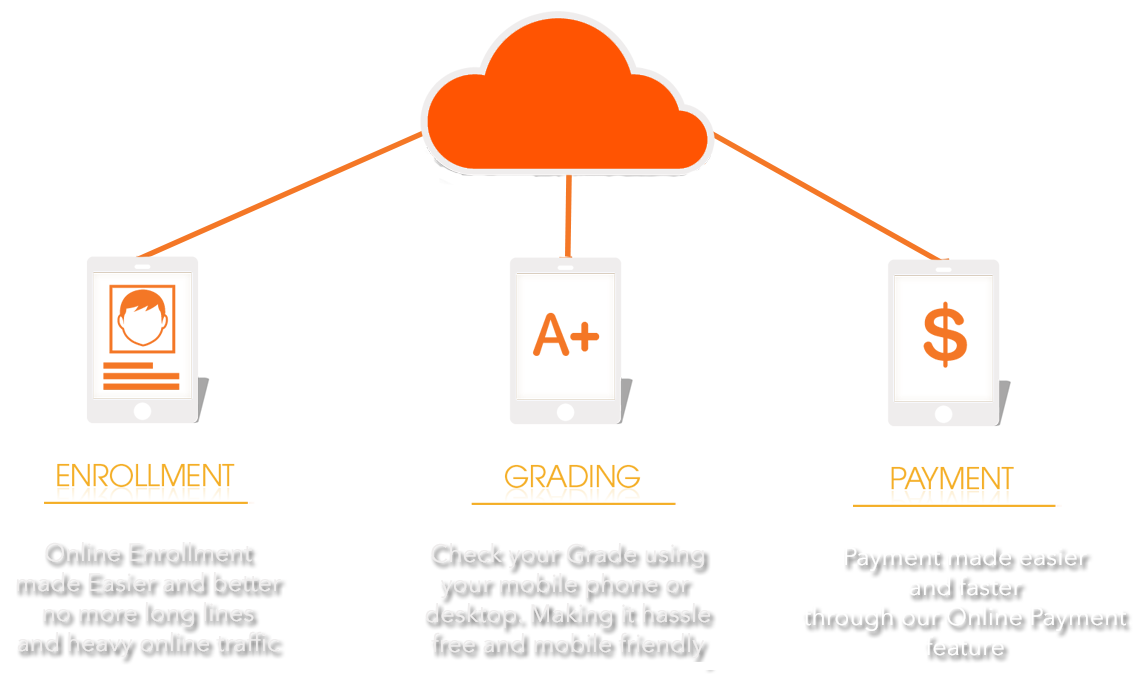
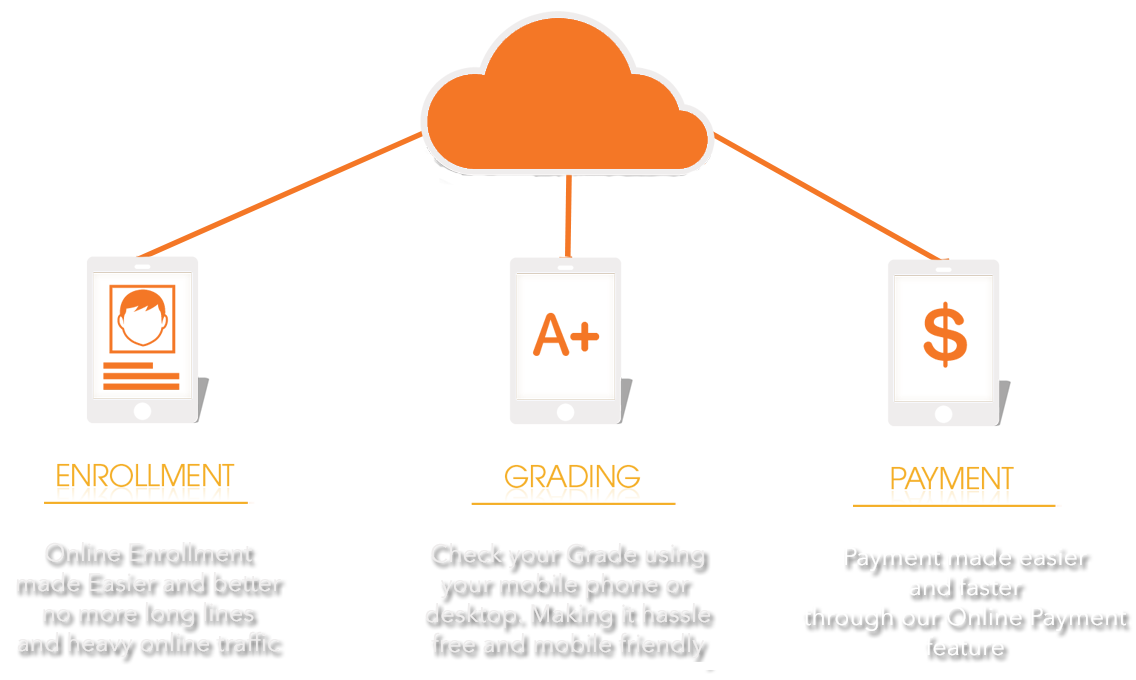
colorfix

Changed region(s): [[0.3697, 0.0309, 0.647, 0.2471]]

diff --git a/Home.html b/Home.html
@@ -58,7 +58,7 @@ $(document).ready(function(){
 		}
 		
 		 #fifth{
-	background: #ff5506;
+	background: #f47726;
 	height: 350px;
 	margin: 0 auto;
 	padding: 80px 0 0 0;
@@ -124,7 +124,7 @@ $(document).ready(function(){
 	color: #ffffff;
 }
 h3.heading-tag {
-background: #ff5506;
+background: #f47726;
 color: #fff;
 font-family: "europa",sans-serif;
 vertical-align: middle;

diff --git a/about.html b/about.html
@@ -44,7 +44,7 @@ $(document).ready(function(){
 
 	<style type="text/css">
 		#intro { 
-			background: #ff5506;
+			background: #f47726;
 			height: 100px; 
 			margin: 0 auto; 
 		    width: 100%; 
